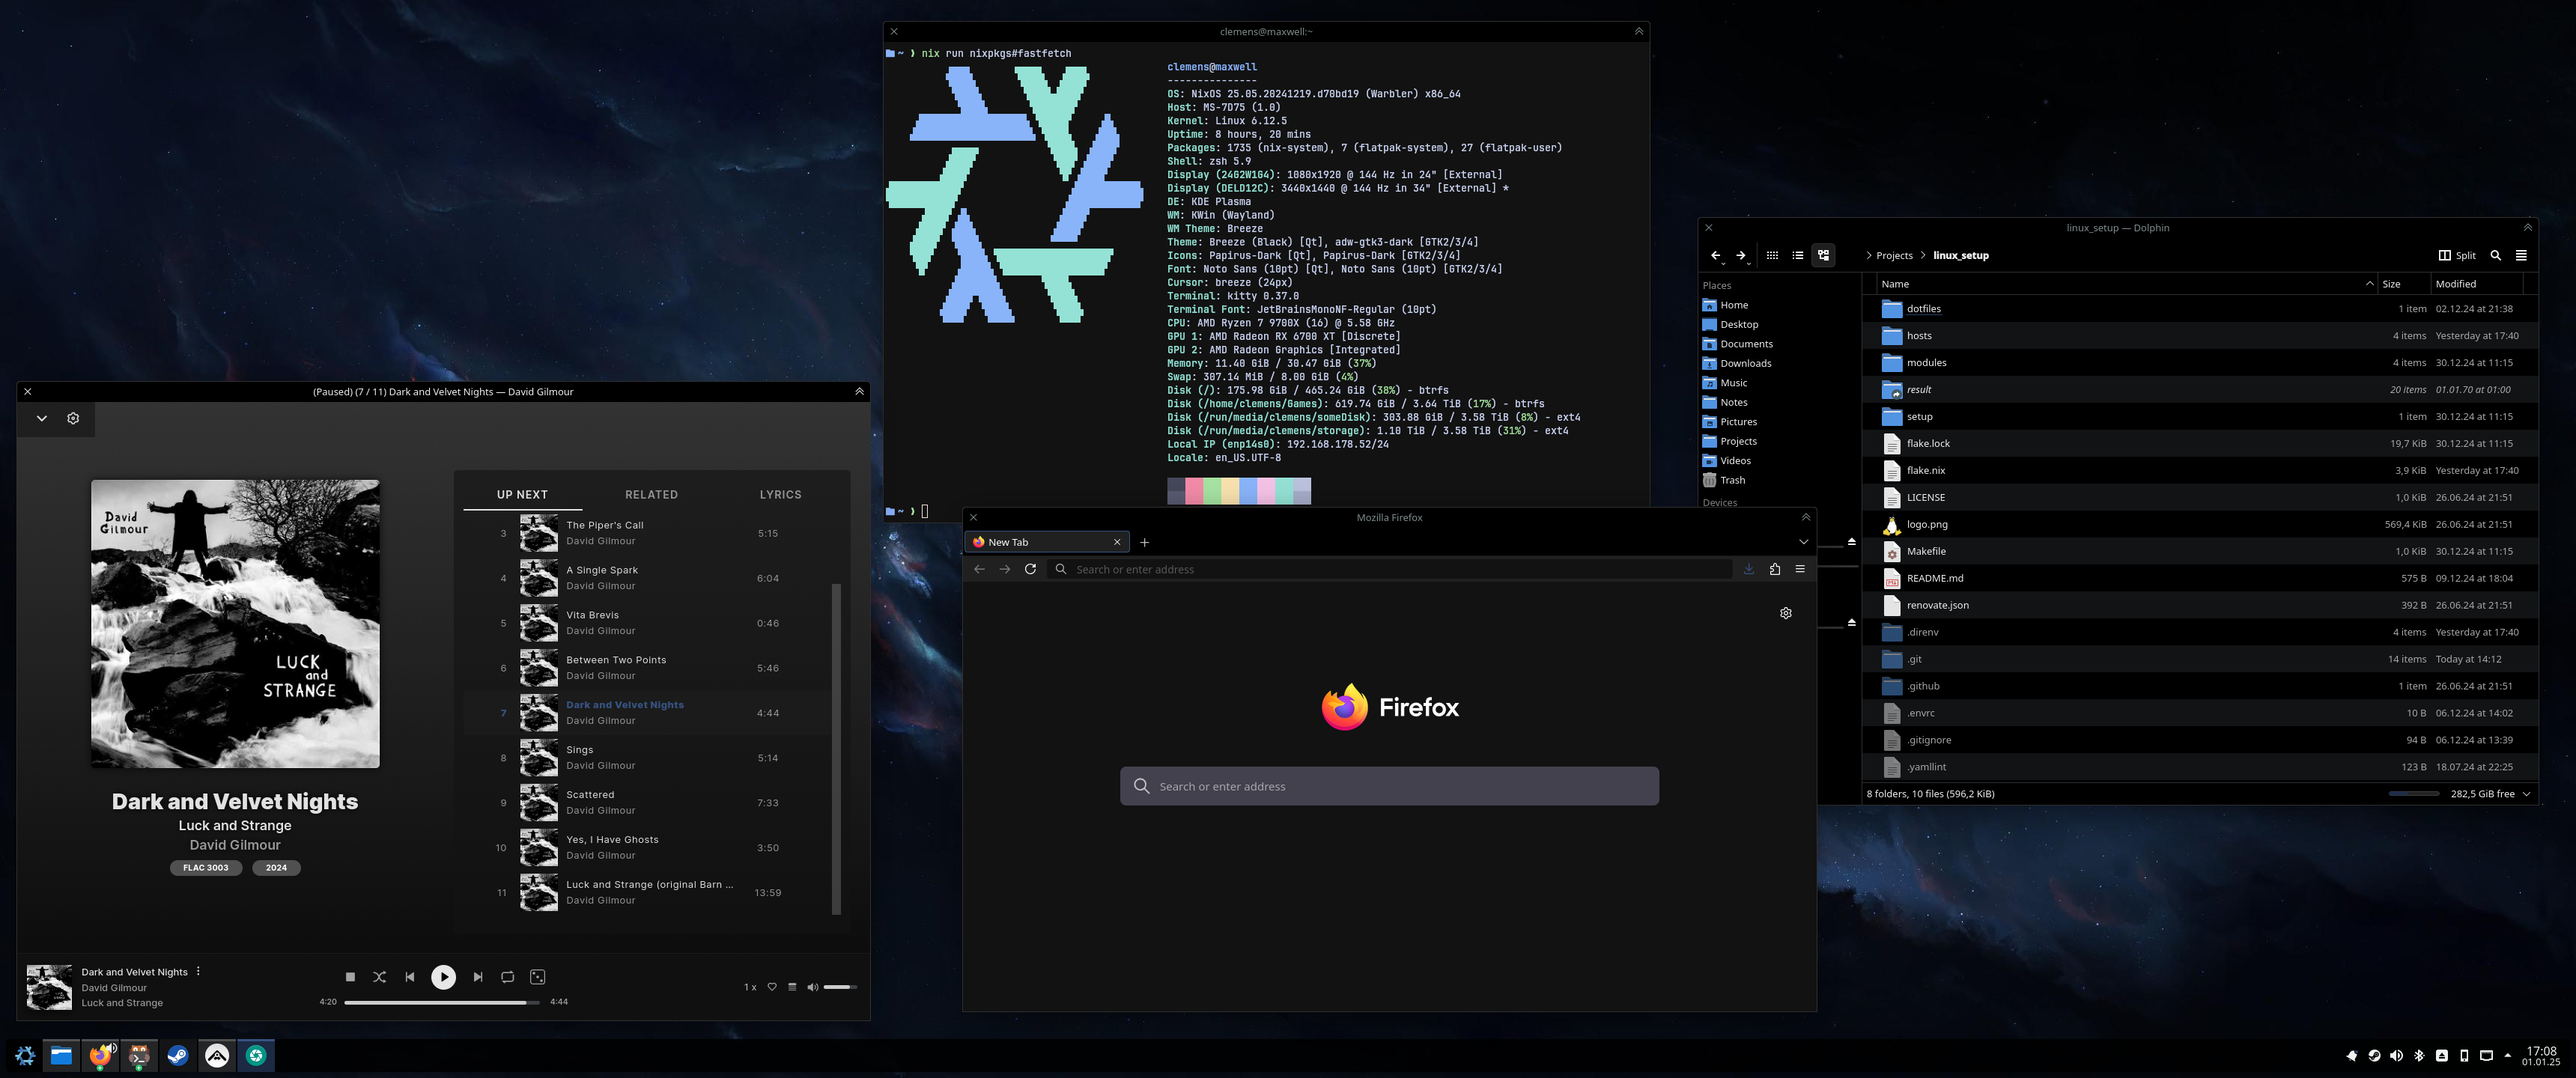
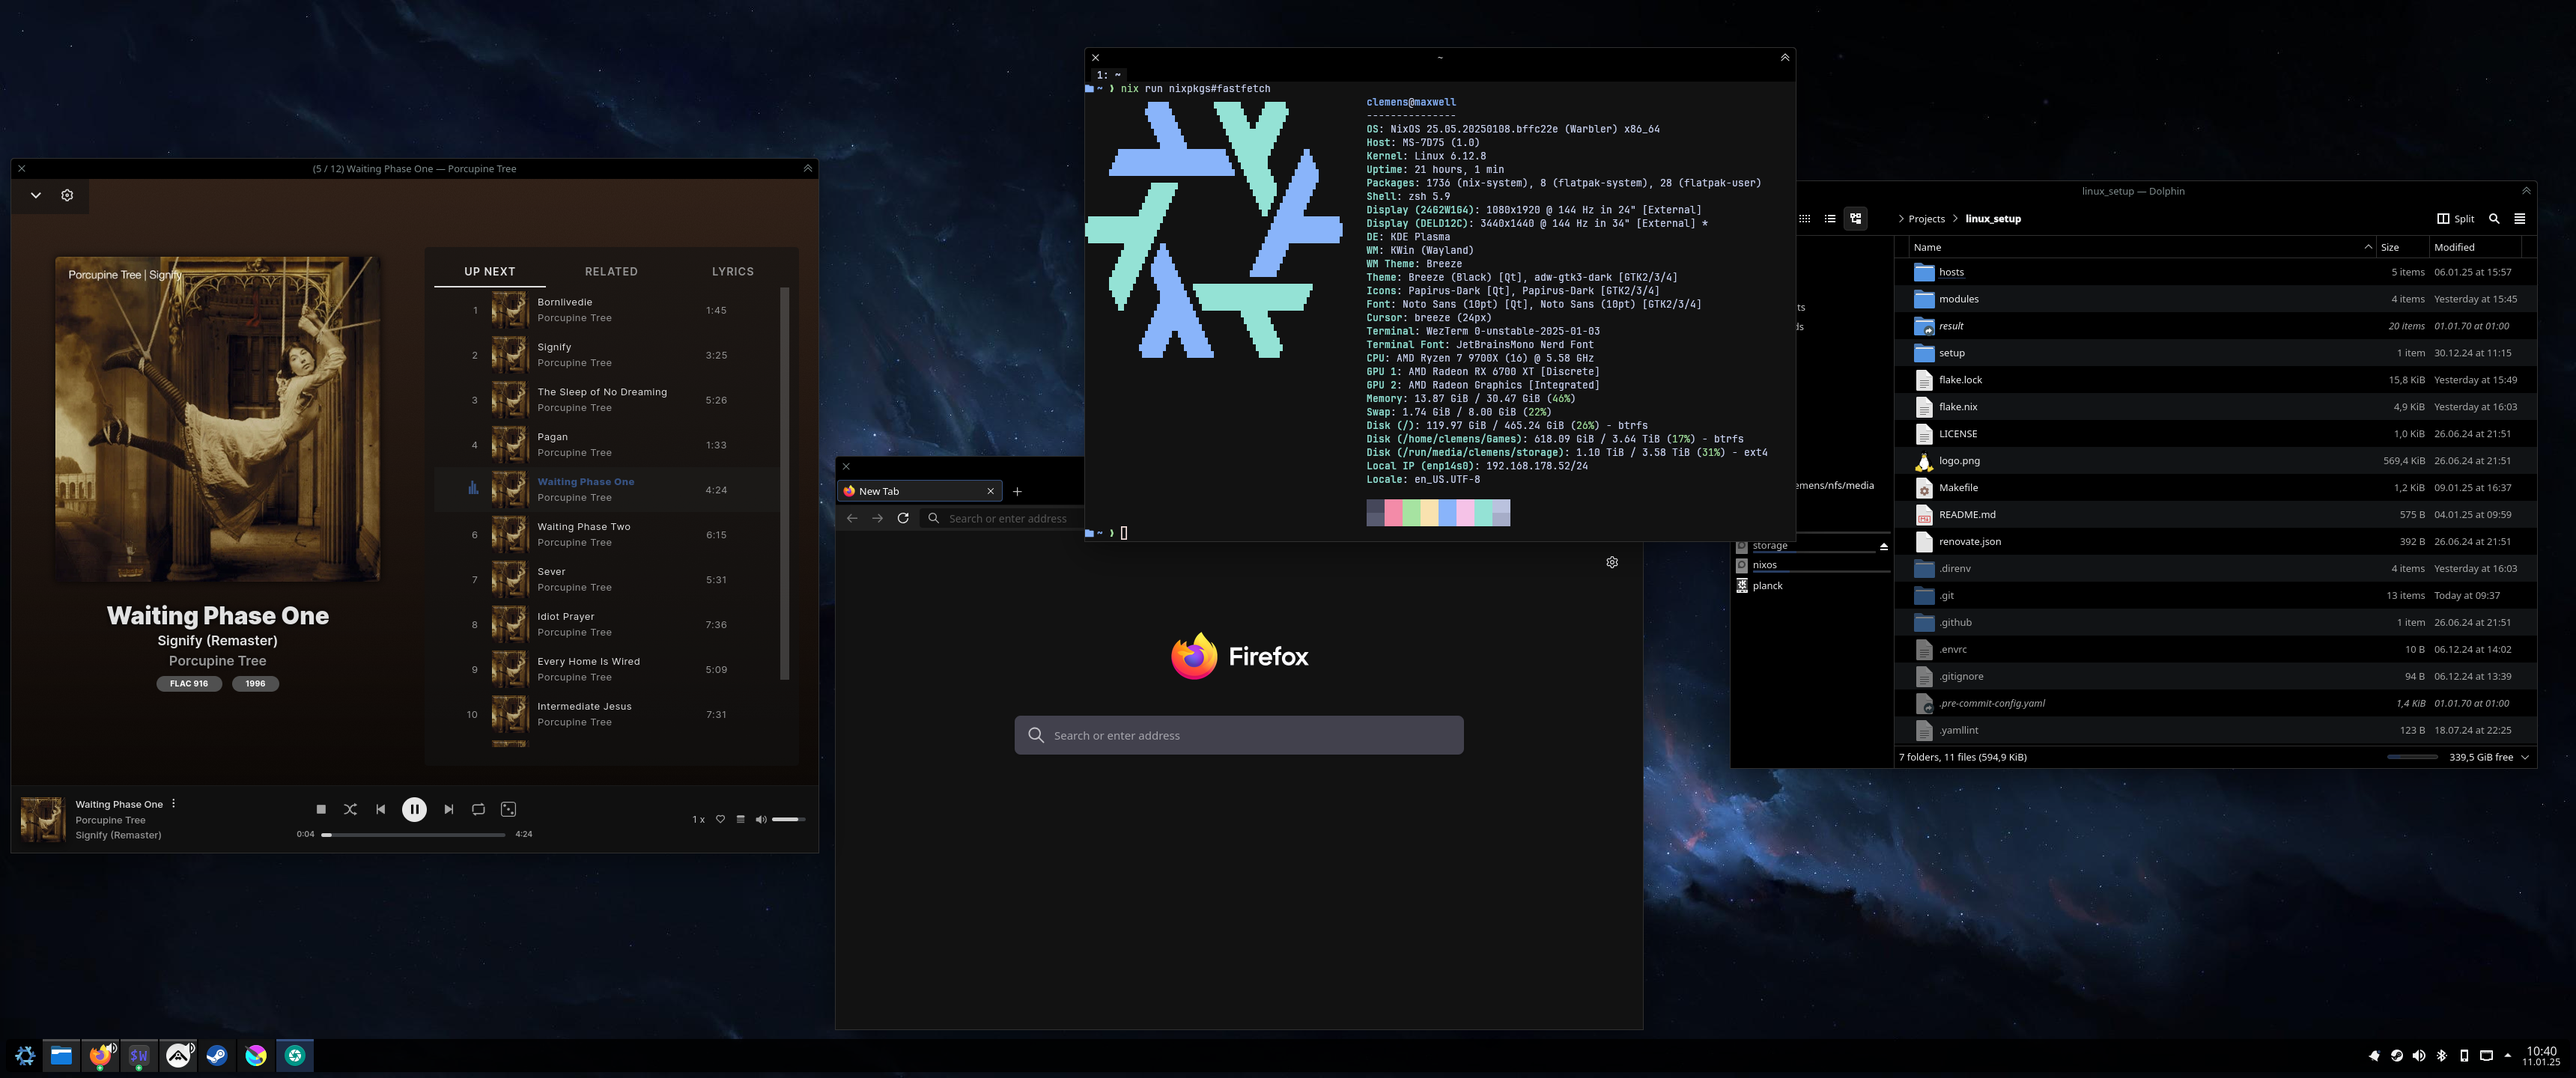
fix: update screenshot

diff --git a/content/linux_setup/index.md b/content/linux_setup/index.md
@@ -14,7 +14,7 @@ nix shell etc. to manage project-specific dependencies.
 
 Here is a current screenshot of my main system:
 
-![screenshot](screen.png "Screenshot of my system, showing firefox, feishin, kitty and dolphin")
+![screenshot](screen.png "Screenshot of my system, showing firefox, feishin, wezterm and dolphin")
 
 If you are interested in the hardware details of my main PC:
 
@@ -38,7 +38,7 @@ As for the software side:
 | OS           | [NixOS](https://nixos.org/)                       |
 | DE           | [KDE Plasma 6](https://kde.org/)                  |
 | Browser      | [Firefox](https://www.mozilla.org/en-US/firefox/) |
-| Terminal     | [kitty](https://sw.kovidgoyal.net/kitty/)         |
+| Terminal     | [wezterm](https://wezfurlong.org/wezterm/)        |
 | Music Player | [feishin](https://github.com/jeffvli/feishin)     |
 | Texteditor   | [neovim](https://neovim.io/)                      |
 | PIM          | [Kontact](https://userbase.kde.org/Kontact)       |
